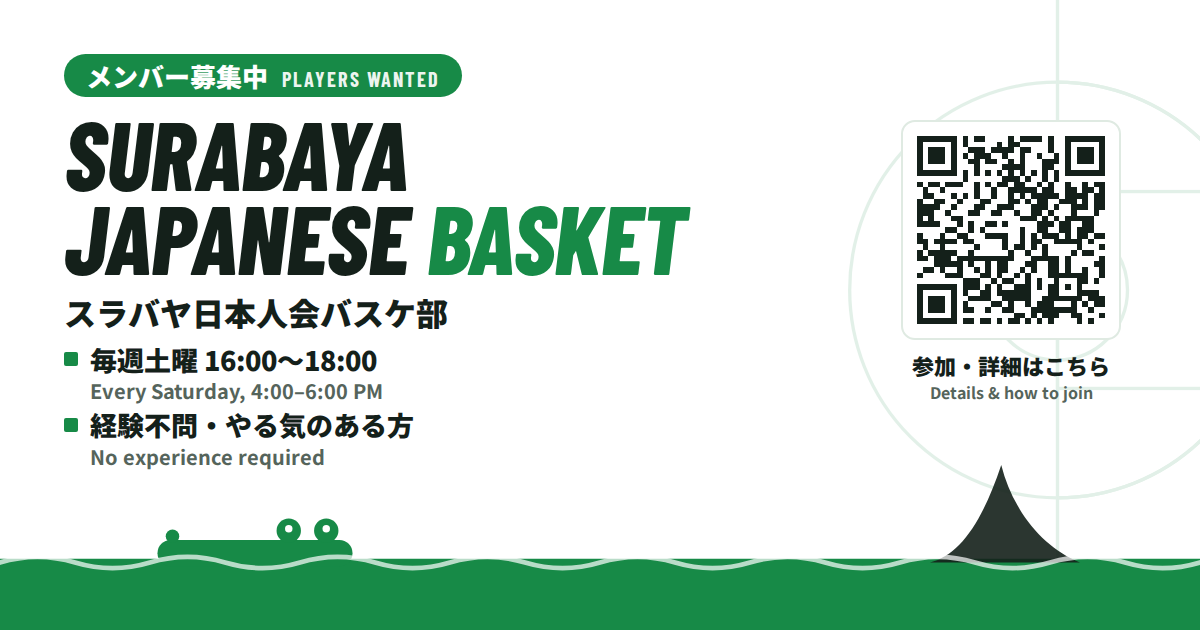
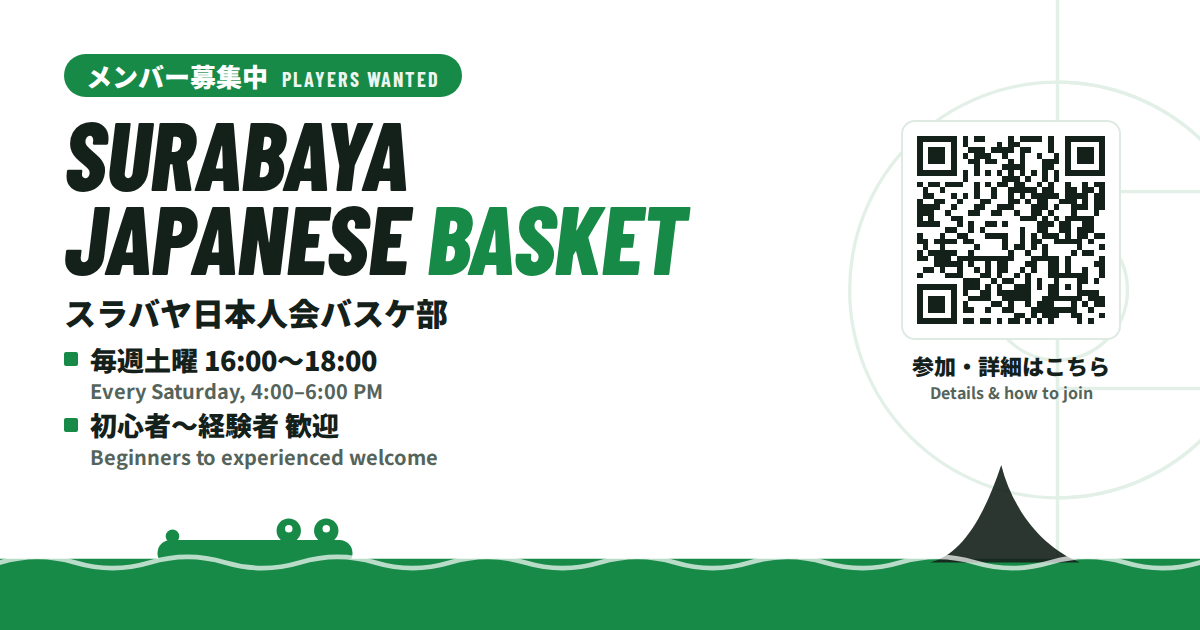
Revert "Reword the entry level as experience not required"
Restore the original "beginners to experienced" wording on the site
and banners, and drop the "motivated players" phrasing, which raised
the bar for newcomers.

Changed region(s): [[0.0617, 0.6333, 0.37, 0.754]]

diff --git a/src/i18n/ui.ts b/src/i18n/ui.ts
@@ -17,13 +17,13 @@ export const ui = {
     siteName: 'スラバヤ日本人会バスケ部',
     title: 'スラバヤ日本人会バスケ部 | スラバヤ在住の日本人バスケチーム',
     description:
-      'インドネシア・スラバヤ在住の日本人バスケチーム。毎週土曜の夕方に練習しています。経験は問いません。やる気のある方、お待ちしています。',
+      'インドネシア・スラバヤ在住の日本人バスケチーム。毎週土曜の夕方に練習しています。初心者から経験者まで、ゆるーく活動中。',
     nav: { about: 'チーム紹介', join: '参加案内', faq: 'はじめての方へ', gallery: 'ギャラリー', contact: '連絡先', cta: '参加する' },
     hero: {
       badge: 'メンバー募集中',
       eyebrow: 'Surabaya Japanese Basket',
       heading: 'スラバヤで、\nゆるく楽しくバスケ。',
-      lead: 'スラバヤ在住の日本人バスケチームです。毎週土曜の夕方に練習しています。経験は問いません。やる気のある仲間を募集中です。',
+      lead: 'スラバヤ在住の日本人バスケチームです。毎週土曜の夕方に練習しています。初心者から経験者まで、一緒にプレーしてくれる仲間を募集中です。',
       photoAlt: 'バスケの試合後に、日本人メンバーと対戦相手のみんなで撮った集合写真',
       cta: 'フォームで参加・見学を申込',
       ctaDm: 'Instagram の DM で相談',
@@ -35,7 +35,7 @@ export const ui = {
       heading: 'チーム紹介',
       body: [
         'インドネシア・スラバヤに住む日本人が集まって活動しているバスケットボールチームです。',
-        '年代は20代から50代まで。経験もさまざまで、ゆるーく楽しくプレーしています。',
+        '年代は20代から50代まで。初めての方から経験者まで、ゆるーく楽しくプレーしています。',
         'インドネシアの方も数名、一緒にプレーしています。',
         '人数が少ない日は、ハーフコートで楽しむこともあります。気負わず、気軽に遊びに来てください。',
         'スラバヤへの出張・旅行の際の参加も歓迎です。',
@@ -44,7 +44,7 @@ export const ui = {
         { label: '活動', value: '毎週土曜の夕方' },
         { label: '部員', value: '十数名' },
         { label: '年代', value: '20代〜50代' },
-        { label: 'レベル', value: '経験不問' },
+        { label: 'レベル', value: '初心者〜経験者' },
       ],
     },
     join: {
@@ -63,7 +63,7 @@ export const ui = {
       heading: 'はじめての方へ',
       lead: 'よくいただく質問です。ここにないことは、フォームか Instagram の DM でお気軽にどうぞ。',
       items: [
-        { q: '初心者でも大丈夫ですか？', a: '経験は問いません。やる気のある方なら、初心者でも続いています。未経験だからという理由で、お断りすることはありません。' },
+        { q: '初心者でも大丈夫ですか？', a: '大丈夫です。初めての方から経験者まで、ゆるく楽しくプレーしています。' },
         { q: 'ブランクがあっても大丈夫ですか？', a: '大丈夫です。ブランクのない人のほうが少ないくらいなので、久しぶりの方も気軽にどうぞ。' },
         { q: '何を持っていけばいいですか？', a: '動きやすい服装、体育館シューズ、飲み物があれば大丈夫です。' },
         { q: '参加費はいくらですか？', a: 'Rp 50,000 前後です。会場や人数によって変わります。' },
@@ -114,13 +114,13 @@ export const ui = {
     siteName: 'Surabaya Japanese Basket',
     title: 'Surabaya Japanese Basket | A friendly basketball team in Surabaya',
     description:
-      'A basketball team of Japanese residents in Surabaya, Indonesia. We practice every Saturday evening. No experience required. We are looking for motivated players.',
+      'A basketball team of Japanese residents in Surabaya, Indonesia. We practice every Saturday evening. Beginners to experienced players are all welcome.',
     nav: { about: 'About', join: 'Join us', faq: 'FAQ', gallery: 'Gallery', contact: 'Contact', cta: 'Join' },
     hero: {
       badge: 'Players wanted',
       eyebrow: 'Surabaya Japanese Basket',
       heading: 'Easygoing\nbasketball in Surabaya.',
-      lead: 'We are a basketball team of Japanese residents in Surabaya. We practice every Saturday evening. No experience required, and we are looking for motivated players to join us.',
+      lead: 'We are a basketball team of Japanese residents in Surabaya. We practice every Saturday evening, and we are looking for more players, from beginners to experienced.',
       photoAlt: 'A group photo of our members and the opposing team after a game',
       cta: 'Apply to join or visit',
       ctaDm: 'Message us on Instagram',
@@ -132,7 +132,7 @@ export const ui = {
       heading: 'About the team',
       body: [
         'We are a basketball team made up of Japanese residents living in Surabaya, Indonesia.',
-        'Our members are in their 20s to 50s, with a mix of experience levels, and we play in a relaxed, friendly way.',
+        'Our members are in their 20s to 50s, from first-timers to experienced players, and we play in a relaxed, friendly way.',
         'A few Indonesian players join us as well.',
         'On days when fewer people show up, we sometimes play half-court. No need to be nervous. Just come and join us.',
         'Visitors to Surabaya on business or travel are welcome to join, too.',
@@ -141,7 +141,7 @@ export const ui = {
         { label: 'When', value: 'Saturday evenings' },
         { label: 'Members', value: 'Over 10' },
         { label: 'Ages', value: '20s – 50s' },
-        { label: 'Experience', value: 'Not required' },
+        { label: 'Level', value: 'Beginners to experienced' },
       ],
     },
     join: {
@@ -160,7 +160,7 @@ export const ui = {
       heading: 'New here?',
       lead: 'Answers to common questions. If yours is not here, use the form or send us a DM on Instagram.',
       items: [
-        { q: 'Is it OK if I am a beginner?', a: 'Yes. Experience is not required. Newcomers who are keen to play tend to stick with it, and we do not turn anyone away for being a beginner.' },
+        { q: 'Is it OK if I am a beginner?', a: 'Yes. Our members range from first-timers to experienced players, and we play in a relaxed, friendly way.' },
         { q: 'What if I have not played in years?', a: 'No problem. Most of our members have had a break from basketball, so you will fit right in.' },
         { q: 'What should I bring?', a: 'Comfortable clothes, indoor court shoes, and a drink are all you need.' },
         { q: 'How much does it cost?', a: 'Around Rp 50,000. It varies by venue and turnout.' },

diff --git a/banners/template.html b/banners/template.html
@@ -135,7 +135,7 @@
       <p class="name">スラバヤ日本人会バスケ部</p>
       <ul class="facts">
         <li><span class="ja">毎週土曜 16:00〜18:00</span><span class="en-line">Every Saturday, 4:00–6:00 PM</span></li>
-        <li><span class="ja">経験不問・やる気のある方</span><span class="en-line">No experience required</span></li>
+        <li><span class="ja">初心者〜経験者 歓迎</span><span class="en-line">Beginners to experienced welcome</span></li>
       </ul>
     </div>
     <div class="cta">
